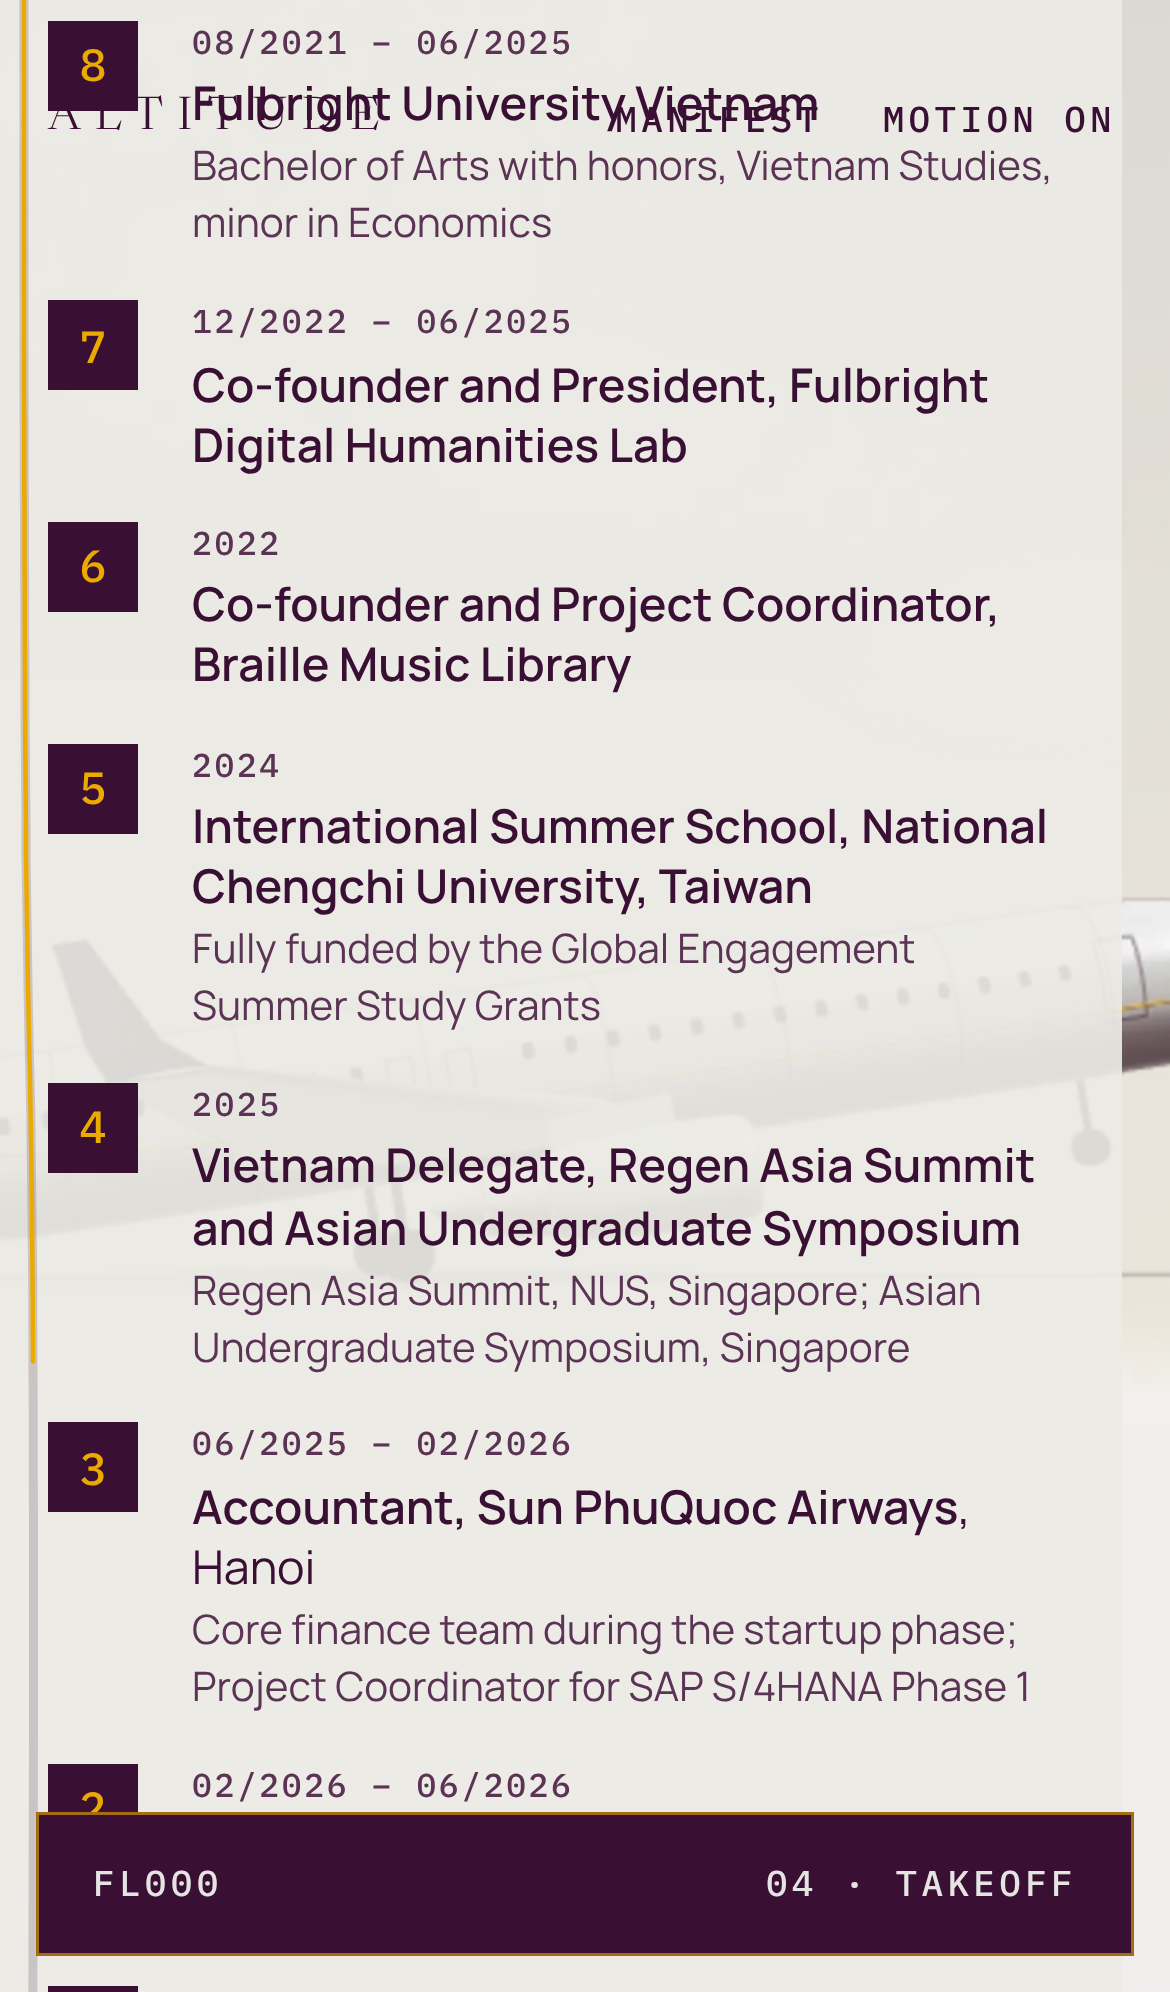
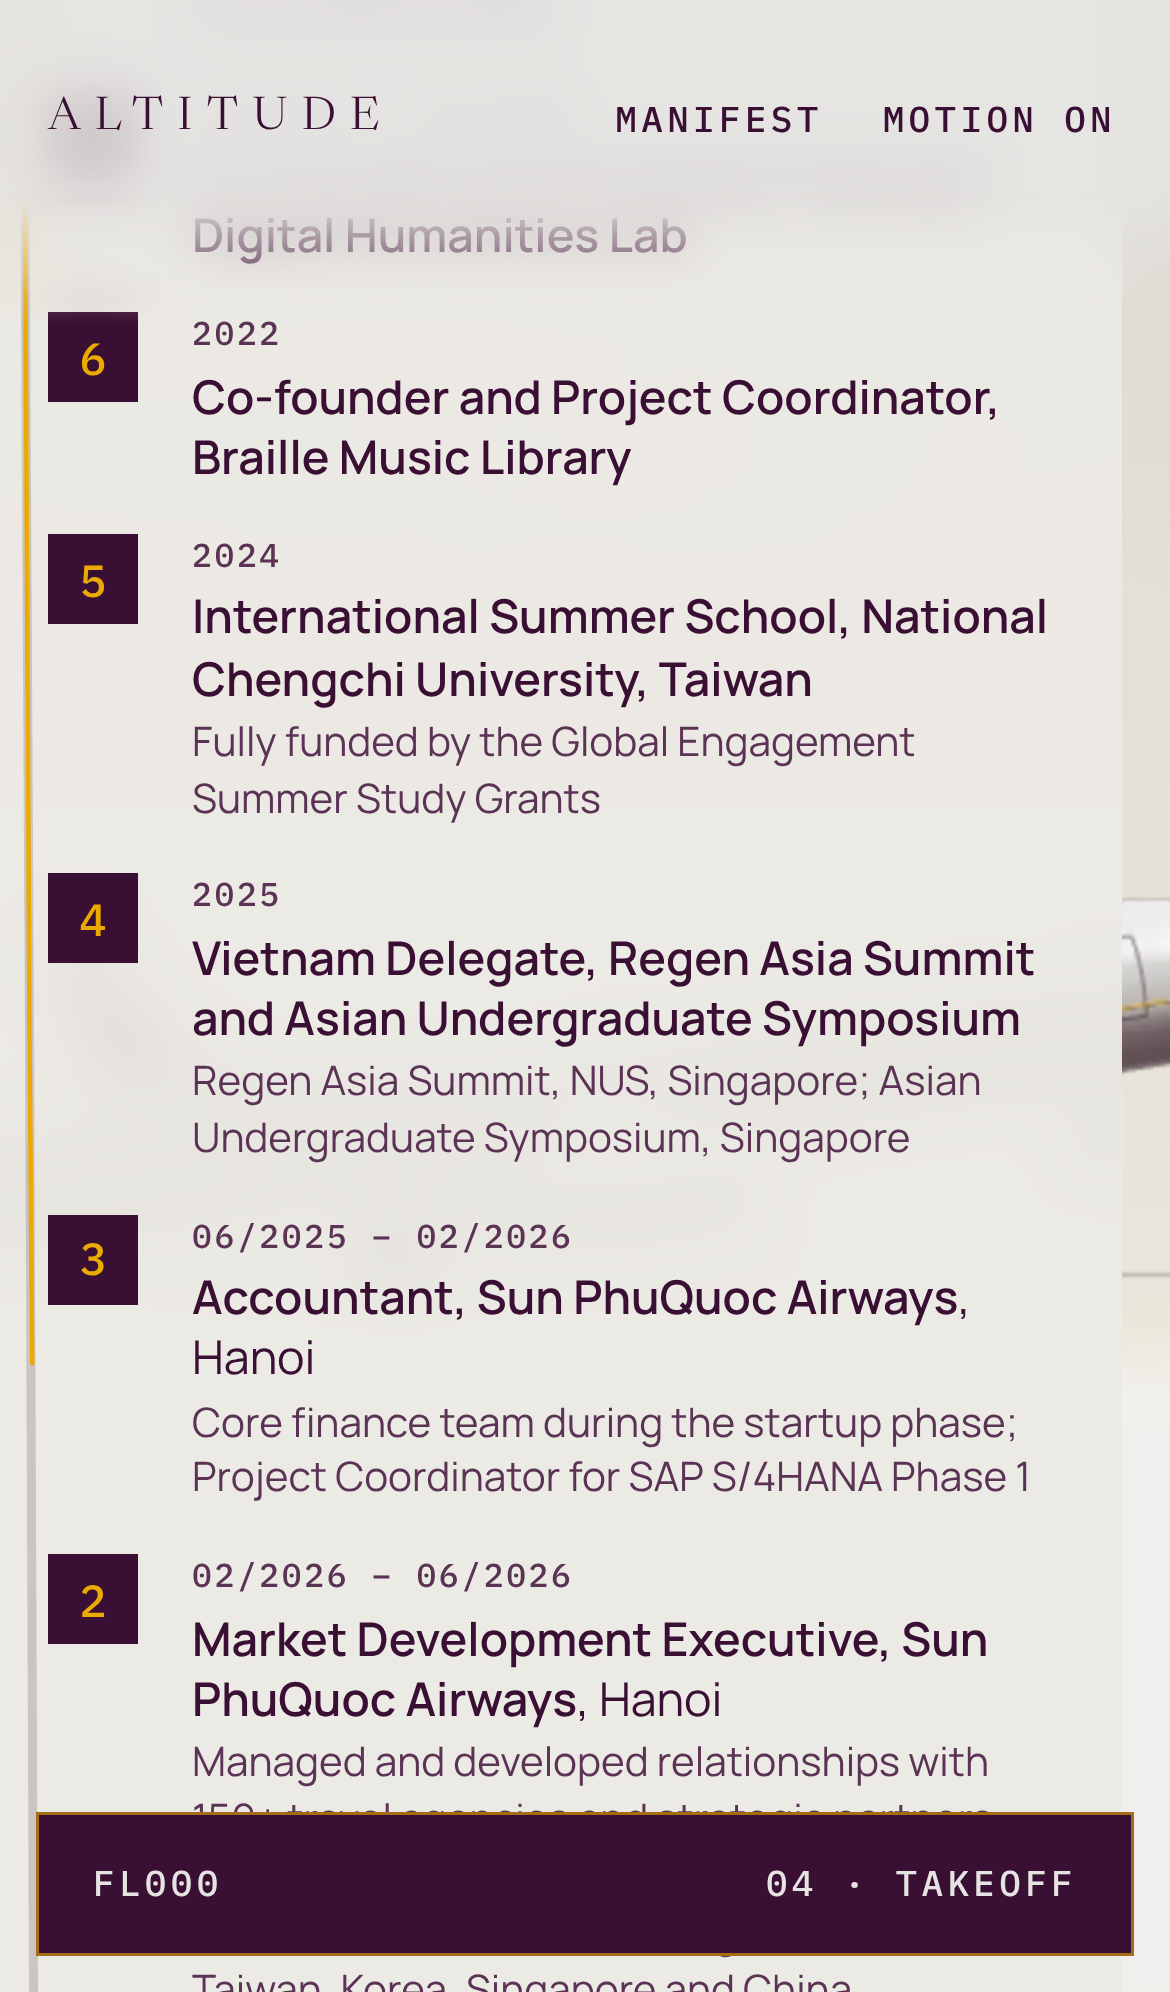
Owner review fixes: hero, journey, navigation, readability
Content
- Current title: Sales Policy & Market Management Specialist (HDQ)
- Details added for Market Development Executive and the current role

Interface
- Hero: headline bounded by viewport height, aircraft lower, silver
  outline on the front headline; tagline clear at short windows
- Journey: scrim with blur, countdown key, normal scrolling on narrow or
  short screens so the last item clears the bottom altimeter bar
- Navigation backing after the hero; dark instruments only at cruise
- Departure board reads as words; Thinking topics more legible
- Descent window keeps its shape on 768-899 px live screens
- Posters and social image re-rendered

Claude-Session: https://claude.ai/code/session_01SV5wVZbwwYmEUXQkrN46m9

diff --git a/src/styles/global.css b/src/styles/global.css
@@ -14,6 +14,7 @@
 }
 
 :root {
+  --nav-bg: rgba(229, 228, 226, 0.86);
   --silver: #e5e4e2;
   --gold: #eaaa00;
   --burgundy: #3a0f34;
@@ -227,6 +228,23 @@ main {
   color: var(--nav-ink, var(--burgundy));
   pointer-events: none;
 }
+.nav::before {
+  content: '';
+  position: absolute;
+  inset: 0 0 -28px 0;
+  z-index: -1;
+  pointer-events: none;
+  background: linear-gradient(180deg, var(--nav-bg) 0, var(--nav-bg) 58%, transparent);
+  -webkit-backdrop-filter: blur(8px);
+  backdrop-filter: blur(8px);
+  -webkit-mask-image: linear-gradient(180deg, #000 62%, transparent);
+  mask-image: linear-gradient(180deg, #000 62%, transparent);
+  opacity: 0;
+  transition: opacity 0.4s;
+}
+html[data-scrolled] .nav::before {
+  opacity: 1;
+}
 .nav > * {
   pointer-events: auto;
 }
@@ -261,6 +279,7 @@ main {
 html[data-sky='dark'],
 html[data-chrome='dark'] {
   --nav-ink: var(--silver);
+  --nav-bg: rgba(34, 8, 31, 0.8);
 }
 
 /* Altimeter */
@@ -668,12 +687,18 @@ html.motion-off *::after {
   position: absolute;
   margin: 0;
   left: var(--gutter);
-  top: 21vh;
-  font-size: clamp(56px, 9.2vw, 200px);
+  top: 17vh;
+  /* bounded by height too, so short windows keep room for the tagline */
+  font-size: clamp(44px, min(9.2vw, 15.5vh), 200px);
   line-height: 0.94;
   color: var(--burgundy);
   display: flex;
   flex-direction: column;
+}
+.hero-front .hero-h1 {
+  /* a silver outline separates the letters from the burgundy tail as it passes behind */
+  -webkit-text-stroke: 0.06em #e5e4e2;
+  paint-order: stroke fill;
 }
 .hero-l2 {
   padding-left: 0.62em;
@@ -686,7 +711,7 @@ html.motion-off *::after {
   position: absolute;
   left: var(--gutter);
   right: calc(var(--gutter) + 130px);
-  bottom: 7vh;
+  bottom: 6vh;
   display: grid;
   grid-template-columns: minmax(0, 30rem) auto;
   justify-content: space-between;
@@ -1224,7 +1249,7 @@ html.motion-off *::after {
   top: 0;
   height: 100vh;
   height: 100svh;
-  padding-top: 12vh;
+  padding-top: max(80px, 10vh);
   padding-bottom: 0;
   box-sizing: border-box;
   overflow: hidden;
@@ -1236,9 +1261,21 @@ html.motion-off *::after {
 .takeoff-live .takeoff-col::before {
   content: '';
   position: absolute;
-  inset: -12vh -160px -40vh calc(-1 * var(--gutter));
-  background: linear-gradient(90deg, rgba(236, 234, 229, 0.96) 62%, rgba(236, 234, 229, 0));
+  inset: -12vh -220px -40vh calc(-1 * var(--gutter));
+  /* scrim + blur: the list stays readable while the fuselage passes behind it */
+  background: linear-gradient(90deg, rgba(236, 234, 229, 0.94) 0, rgba(236, 234, 229, 0.94) 78%, rgba(236, 234, 229, 0));
+  -webkit-backdrop-filter: blur(10px);
+  backdrop-filter: blur(10px);
+  -webkit-mask-image: linear-gradient(90deg, #000 78%, transparent);
+  mask-image: linear-gradient(90deg, #000 78%, transparent);
   z-index: -1;
+}
+.runway-key {
+  margin: -10px 0 14px;
+  font: 500 10.5px/1.5 var(--font-mono);
+  letter-spacing: 0.1em;
+  text-transform: uppercase;
+  color: var(--ink-soft);
 }
 .takeoff-live .section-h {
   font-size: clamp(40px, 4.6vw, 80px);
@@ -1328,11 +1365,7 @@ html.motion-off *::after {
   width: 1px;
   height: 1px;
 }
-@media (max-width: 899px) {
-  .takeoff-col::before {
-    display: none;
-  }
-}
+
 
 /* ------------------------------ 05 Climb ------------------------------ */
 .climb {
@@ -1470,13 +1503,17 @@ html.motion-off *::after {
 }
 .flap {
   display: flex;
-  gap: 2px;
+  gap: 1px;
+}
+.flap-gap {
+  display: inline-block;
+  width: 0.55em;
 }
 .flap-cell {
   display: inline-grid;
   place-items: center;
-  width: 1.15em;
-  height: 1.55em;
+  width: 0.98em;
+  height: 1.5em;
   background: linear-gradient(180deg, #2a1027 49%, #160514 51%);
   color: #f1ede6;
   font: 500 13px/1 var(--font-mono);
@@ -1965,7 +2002,7 @@ html.motion-off *::after {
   .modal-grid {
     grid-template-columns: 1fr;
   }
-  .cabin-cut {
+  html[data-mode='still'] .cabin-cut {
     position: relative;
     right: auto;
     top: auto;
@@ -1975,13 +2012,20 @@ html.motion-off *::after {
     box-shadow: 0 0 0 12px #ddd6cd, 0 0 0 14px #b9aea3;
     overflow: hidden;
   }
-  .descent-stage {
+  html[data-mode='still'] .descent-stage {
     background: #ebe6df;
     display: flex;
     flex-direction: column-reverse;
   }
-  .descent-text {
+  html[data-mode='still'] .descent-text {
     max-width: none;
+  }
+  html[data-mode='live'] .cabin-cut {
+    right: var(--gutter);
+    width: 30vw;
+  }
+  html[data-mode='live'] .descent-text {
+    max-width: 58vw;
   }
   .climb-intro {
     min-height: 70vh;
@@ -1995,6 +2039,16 @@ html.motion-off *::after {
 @media (max-height: 760px) and (min-width: 900px) {
   .takeoff-live .runway-detail {
     display: none;
+  }
+}
+/* The compact altimeter is a bar fixed at the bottom: keep content clear of it */
+@media (max-width: 899px) {
+  main,
+  .footer {
+    padding-bottom: calc(84px + env(safe-area-inset-bottom));
+  }
+  .takeoff-live .takeoff-stage {
+    padding-bottom: calc(84px + env(safe-area-inset-bottom));
   }
 }
 .cabin-img {
@@ -2026,7 +2080,9 @@ html.motion-off *::after {
 
 /* Still mode: poster frames sit behind the content, so long text gets a light scrim */
 html[data-mode='still'] .takeoff-col {
-  background: rgba(236, 234, 229, 0.92);
+  background: rgba(236, 234, 229, 0.95);
+  -webkit-backdrop-filter: blur(10px);
+  backdrop-filter: blur(10px);
   padding: 18px;
   margin-left: -18px;
 }
@@ -2087,4 +2143,35 @@ html[data-mode='still'] .contact {
 }
 .modal-ext a {
   color: var(--gold);
+}
+
+/*
+  Takeoff on narrow or short live screens: the pinned 100vh stage cannot hold eight milestones
+  (and the compact altimeter bar sits at the bottom), so the list scrolls normally instead.
+  The 3D take-off still plays behind it, driven by scroll.
+*/
+@media (max-width: 899px), (max-height: 720px) {
+  .takeoff-live {
+    height: auto;
+  }
+  .takeoff-live .takeoff-stage {
+    position: relative;
+    height: auto;
+    overflow: visible;
+    padding-top: 14vh;
+    padding-bottom: calc(110px + env(safe-area-inset-bottom));
+  }
+  .takeoff-live .runway-detail {
+    display: block;
+    max-height: none;
+  }
+  .takeoff-live .takeoff-instruments {
+    display: none;
+  }
+  .takeoff-live .takeoff-col::before {
+    inset: -14vh -24px -40px calc(-1 * var(--gutter));
+    background: rgba(236, 234, 229, 0.94);
+    -webkit-mask-image: none;
+    mask-image: none;
+  }
 }

diff --git a/src/flight/scroll.ts b/src/flight/scroll.ts
@@ -54,10 +54,17 @@ function compute(y: number) {
 let lastSky = '';
 export function updateFlight() {
   flight.t = compute(window.scrollY);
-  const dark = flight.t > 5.04 && flight.t < 6.86 ? 'dark' : 'light';
+  // dark instruments only over the night sky of the cruise; the descent cabin wall is light
+  const dark = flight.t > 5.04 && flight.t < 6.0 ? 'dark' : 'light';
   if (dark !== lastSky) {
     document.documentElement.dataset.sky = dark;
     lastSky = dark;
+  }
+  // past the hero, the navigation gets a soft backing so it never sits bare on content
+  const scrolled = window.scrollY > window.innerHeight * 0.6 ? '1' : '';
+  if ((document.documentElement.dataset.scrolled ?? '') !== scrolled) {
+    if (scrolled) document.documentElement.dataset.scrolled = scrolled;
+    else delete document.documentElement.dataset.scrolled;
   }
   emitFlight();
 }

diff --git a/src/components/worlds/OpsWorld.tsx b/src/components/worlds/OpsWorld.tsx
@@ -36,12 +36,17 @@ function Flap({ text, go, delay }: { text: string; go: boolean; delay: number })
     return () => clearInterval(id);
   }, [go, text, delay]);
   return (
-    <span className="flap">
-      {[...shown].map((c, i) => (
-        <span key={i} className="flap-cell">
-          {c}
-        </span>
-      ))}
+    // Words are grouped and spaces become narrow gaps, so a row reads as words, not single letters.
+    <span className="flap" role="img" aria-label={text.trim()}>
+      {[...shown].map((c, i) =>
+        text[i] === ' ' ? (
+          <span key={i} className="flap-gap" aria-hidden="true" />
+        ) : (
+          <span key={i} className="flap-cell" aria-hidden="true">
+            {c}
+          </span>
+        ),
+      )}
     </span>
   );
 }

diff --git a/src/content/journey.ts b/src/content/journey.ts
@@ -45,10 +45,13 @@ export const journey: Milestone[] = [
     date: '02/2026 – 06/2026',
     title: `Market Development Executive, ${employer}`,
     place: 'Hanoi',
+    detail:
+      'Managed and developed relationships with 150+ travel agencies and strategic partners across Northern Vietnam; evaluated and worked with General Sales Agents across Taiwan, Korea, Singapore and China',
   },
   {
     date: '06/2026 – Present',
-    title: `Sales Operations & Policy Officer, Headquarters (HDQ), ${employer}`,
+    title: `Sales Policy & Market Management Specialist, Headquarters (HDQ), ${employer}`,
     place: 'Hanoi',
+    detail: 'Sales processes, channel policies and playbooks; Revenue, Pax and Yield analysis; KPI dashboards for management',
   },
 ];

diff --git a/src/content/projects.ts b/src/content/projects.ts
@@ -50,7 +50,7 @@ export const projects: Project[] = [
       context: [
         'A commercial airline in its startup phase, with sales teams working across regions and channels (OTA, wholesale, corporate, GDS and traditional agents).',
       ],
-      role: ['Sales Operations & Policy Officer, Headquarters (HDQ). Coordination and support for the sales market system rather than direct selling.'],
+      role: ['Sales Policy & Market Management Specialist, Headquarters (HDQ). Coordination and support for the sales market system rather than direct selling.'],
       did: [
         'Designed sales processes, channel policies and playbooks for field sales teams across regions',
         'Analysed Revenue, Pax, Yield and channel effectiveness',

diff --git a/src/flight/spline.ts b/src/flight/spline.ts
@@ -15,8 +15,8 @@ export interface CamKey {
 
 export const camKeys: CamKey[] = [
   // 01 Gate: three-quarter front, dominant, from the terminal glass (slightly above)
-  { t: 0.0, pos: [40, 3.2, 44], look: [-3.5, 0.8, -6.5], fov: 30 },
-  { t: 0.85, pos: [37, 3.6, 41], look: [-3.5, 0.6, -6.5], fov: 30 },
+  { t: 0.0, pos: [40, 3.2, 44], look: [-3.5, 3.4, -6.5], fov: 30 },
+  { t: 0.85, pos: [37, 3.6, 41], look: [-3.5, 3.2, -6.5], fov: 30 },
   // 02 Lounge: the camera pulls straight back through the glass
   { t: 1.6, pos: [50, 6.5, 56], look: [-3, 0.2, -6], fov: 30 },
   // 03 Boarding: fuselage and forward door

diff --git a/src/components/ThinkingSection.tsx b/src/components/ThinkingSection.tsx
@@ -20,7 +20,8 @@ export function ThinkingSection() {
         items.current.forEach((el, i) => {
           if (!el) return;
           const k = Math.min(1, Math.max(0, (p - 0.05 - i * 0.12) / 0.14));
-          el.style.opacity = String(0.28 + 0.72 * k);
+          // inactive topics stay clearly readable; the active one simply comes forward
+          el.style.opacity = String(0.62 + 0.38 * k);
           el.style.transform = `translate3d(0, ${(1 - k) * 18}px, 0)`;
         });
       },

diff --git a/src/components/JourneyTimeline.tsx b/src/components/JourneyTimeline.tsx
@@ -50,6 +50,7 @@ export function JourneyTimeline() {
           <h2 id="takeoff-title" className="section-h display">
             My Journey
           </h2>
+          <p className="runway-key">Runway markers count down to rotation: 8 is where it started, 1 is now.</p>
           <ol className="runway-log">
             {journey.map((m, i) => {
               const state = i < active ? 'passed' : i === active ? 'current' : 'ahead';

diff --git a/QA_REPORT.md b/QA_REPORT.md
@@ -52,8 +52,16 @@ Measured on the production build (`npm run build` → `vite preview`) inside a c
 | Accessibility | 8 | 0 axe violations, full keyboard path, Flight Manifest. Held back by the lack of screen-reader testing. |
 | Performance | 7 | Mobile LCP 1.6 s with applied throttling and CLS 0.001, but simulated Lighthouse Performance is 82–87 (target 85), and desktop frame rate was not measured on a GPU. |
 
+## Fixes after owner review (4 Nov 2026)
+
+- Hero: headline size is bounded by window height and the aircraft sits lower, so the tagline never overlaps the headline (checked at 1440×900 and 1440×650); the front headline has a silver outline where the burgundy tail passes behind it.
+- Journey: stronger scrim with blur behind the list; a one-line key explains the 8 → 1 countdown; on screens narrower than 900 px or shorter than 720 px the list scrolls normally and clears the bottom altimeter bar (checked at 860×700).
+- Navigation: a soft backing appears once past the hero; silver instruments are limited to the night cruise (the descent cabin wall is light).
+- Departure board: words are grouped so rows read as words.
+- Thinking & Interests: inactive topics stay at 62 % opacity instead of 28 %.
+- Descent on 768–899 px live screens: the cabin window keeps its shape beside the text.
+
 ## Known issues
 
-- The navigation text can sit over a dark project panel for a moment while scrolling through the climb (it switches to silver only for the lounge and cruise).
 - The lounge panel heading takes focus a beat late when the main thread is busy (focus lands on it after the transition).
 - Lighthouse Performance on simulated mobile varies between 82 and 87 across runs.

diff --git a/CONTENT_GAPS.md b/CONTENT_GAPS.md
@@ -48,6 +48,9 @@ Not taken from the previous site: the phone number and GPA (both public there), 
 
 ## Decisions
 
+- **Current title:** Sales Policy & Market Management Specialist, Headquarters (HDQ) (owner correction, 4 Nov 2026).
+- **Market Development Executive detail:** the 150+ travel agencies and the GSA evaluation (Taiwan, Korea, Singapore, China) are now listed under this role in the journey. Owner to confirm the attribution.
+
 - **No CV on the website** (owner decision). The CV button and its configuration were removed.
 - **Review mode is off.** Nothing on the site is waiting for confirmation.
 
